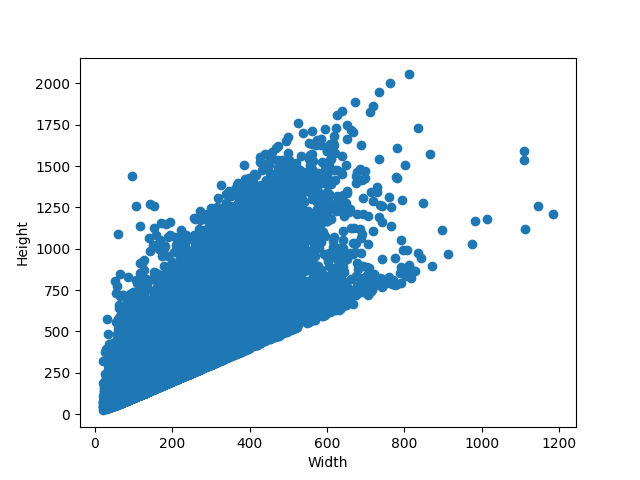
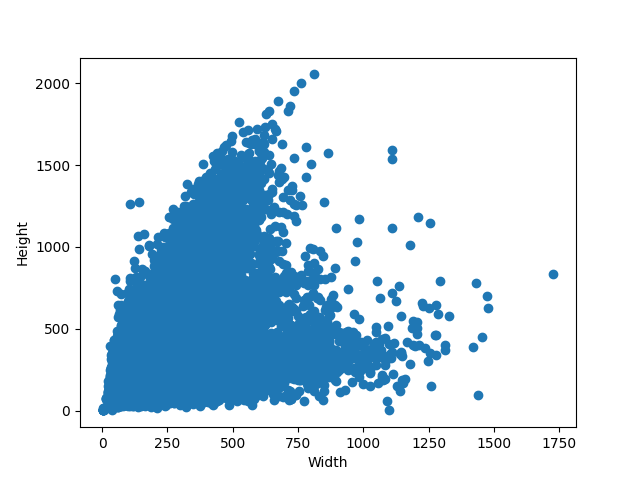
Lots of changes with regression lines Updated find.py to draw a regression line for the old image plotted several plots and created another folder holding the old images

diff --git a/find.py b/find.py
@@ -44,10 +44,7 @@ for i in range(0,70): # iterating through all the training folders
             y_scatter.append(im.size[1])
             im_width, im_height = im.size
 
-            if im_width > im_height:
-                transposed_image = im.transpose(Image.TRANSPOSE)
-                print(f"***************\n {str(path) + '/' + str(file)} \n *************")
-                transposed_image.save(str(path) + "/" + str(file))
+
                 
             # checking all the image sizes
             if im.size[0] < width:
@@ -93,5 +90,55 @@ plt.savefig("Plot.png")
 m,b = np.polyfit(x_scatter,y_scatter, 1)
 x = np.array(x_scatter)
 plt.plot(x, m*x+ b, color = "red")
+plt.savefig("First regressed.png")
+plt.clf()
+
+
+m,b = np.polyfit(x_scatter,y_scatter, 1)
+x = np.array(x_scatter)
+plt.plot(x, m*x+ b, color = "red")
+
+
+trans_x = []
+trans_y = []
+for i in range(0,70): # iterating through all the training folders
+    filen = filepath + "_" +str(i) # creating a filepath for a basis
+    directory = os.fsencode(filen) # finds the directory name
+    print(directory)
+    for file in os.listdir(directory): # iterating through each folder in each training folder
+        filename = os.fsdecode(file)
+        path = filen + "/" + str(filename) # creating a base path
+        if filename.endswith(".csv"): # not reading the .csv file
+            continue
+        for image in os.listdir(path): # reading each image
+            ima = os.fsdecode(image) 
+            if not ima.endswith(".jpg"):
+                continue   
+            if ima.endswith(".jpg"):
+                file = os.fsdecode(image)
+                whole_path = str(path) + "/" +str(file)
+                im = Image.open(str(path) + "/" +str(file))
+
+
+                im_width, im_height = im.size
+
+
+                if im_width > im_height:
+                    transposed_image = im.transpose(Image.TRANSPOSE)
+                    transposed_image.save(str(path) + "/" + str(file))
+
+                    t_width, t_height = transposed_image.size
+
+                    trans_x.append(t_width)
+                    trans_y.append(t_height)
+"""
+            if im_width > im_height:
+                transposed_image = im.transpose(Image.TRANSPOSE)
+                transposed_image.save(str(path) + "/" + str(file))
+
+"""
+
+plt.scatter(trans_x,trans_y)
+plt.plot(x, m*x+b, color = "red")
 plt.savefig("transposed.png")
 plt.show()
